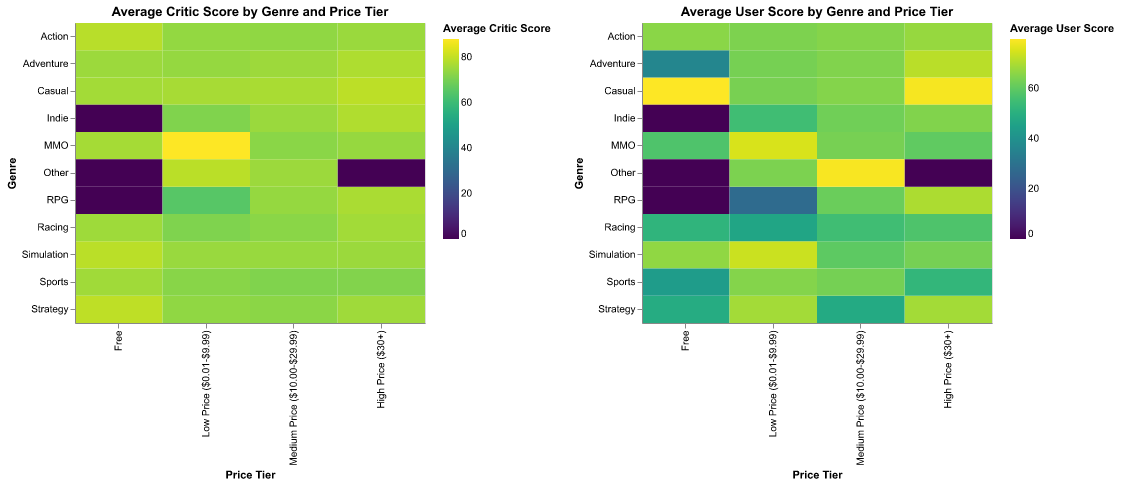
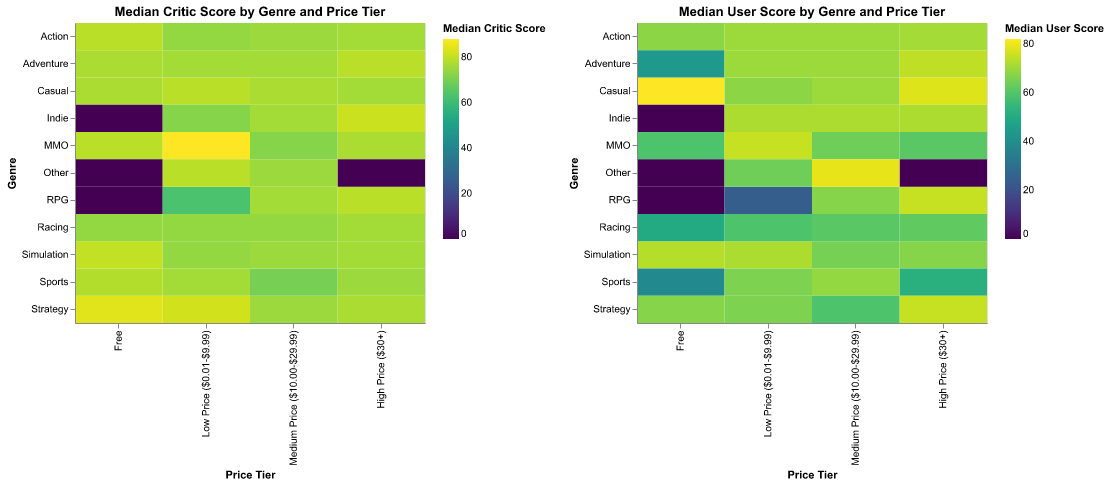
changed to median

diff --git a/scripts/phase_4/q2_price_vs_quality.py b/scripts/phase_4/q2_price_vs_quality.py
@@ -5,7 +5,7 @@ from mongo_config import init_mongo_client
 db = init_mongo_client()
 
 
-# Aggregation Pipeline: average critic and user score by genre and price tier
+# Aggregation Pipeline: median critic and user score by genre and price tier
 pipeline = [
     # stage 1: Create price tiers through addFields oeprator
     {
@@ -47,54 +47,122 @@ pipeline = [
     },
     # stage 2: assign price tier to each document via match operator
     {"$match": {"price_tier": {"$exists": True}}},
-    # stage 3: group by critic score and user score
+    # stage 3: sort the scores by order and extract median by dividing by 2
     {
-        "$group": {
-            "_id": {"genre": "$genre", "price_tier": "$price_tier"},
-            "avg_critic_score": {"$avg": "$review_summary.metascore"},
-            "avg_user_score": {"$avg": "$review_summary.user_score"},
-            "count": {"$sum": 1},
+        "$facet": {
+            "critic_stats": [
+                {
+                    "$sort": {
+                        "genre": 1,
+                        "price_tier": 1,
+                        "review_summary.metascore": 1
+                    }
+                },
+                {
+                    "$group": {
+                        "_id": {
+                            "genre": "$genre",
+                            "price_tier": "$price_tier"
+                        },
+                        "critic_scores": {"$push": "$review_summary.metascore"},
+                        "count": {"$sum": 1}
+                    }
+                },
+                {
+                    "$project": {
+                        "_id": 1,
+                        "count": 1,
+                        "median_critic_score": {
+                            "$arrayElemAt": [
+                                "$critic_scores",
+                                {
+                                    "$floor": {
+                                        "$divide": [
+                                            {"$size": "$critic_scores"},
+                                            2
+                                        ]
+                                    }
+                                }
+                            ]
+                        }
+                    }
+                }
+            ],
+            "user_stats": [
+                {
+                    "$sort": {
+                        "genre": 1,
+                        "price_tier": 1,
+                        "review_summary.user_score": 1
+                    }
+                },
+                {
+                    "$group": {
+                        "_id": {
+                            "genre": "$genre",
+                            "price_tier": "$price_tier"
+                        },
+                        "user_scores": {"$push": "$review_summary.user_score"}
+                    }
+                },
+                {
+                    "$project": {
+                        "_id": 1,
+                        "median_user_score": {
+                            "$arrayElemAt": [
+                                "$user_scores",
+                                {
+                                    "$floor": {
+                                        "$divide": [
+                                            {"$size": "$user_scores"},
+                                            2
+                                        ]
+                                    }
+                                }
+                            ]
+                        }
+                    }
+                }
+            ]
         }
-    },
-    # stage 4: project the required fields for our visualization
-    {
-        "$project": {
-            "_id": 0,
-            "genre": "$_id.genre",
-            "price_tier": "$_id.price_tier",
-            "avg_critic_score": 1,
-            "avg_user_score": 1,
-            "count": 1,
-        }
-    },
+    }
 ]
 
-results = list(db.aggregate(pipeline))
+results = list(db.aggregate(pipeline))[0]
 
 #Map results to their respective dictionaries
+critic_results = results["critic_stats"]
+user_results = results["user_stats"]
+
 critic_scores = {}
 user_scores = {}
 
-for doc in results:
-    genre = doc["genre"]
-    price_tier = doc["price_tier"]
-    avg_critic_score = doc["avg_critic_score"]
-    avg_user_score = doc["avg_user_score"]
-
+for doc in critic_results:
+    genre = doc["_id"]["genre"]
+    price_tier = doc["_id"]["price_tier"]
+    median_critic_score = doc["median_critic_score"]
     if genre not in critic_scores:
         critic_scores[genre] = {}
+    
+    critic_scores[genre][price_tier] = median_critic_score
+
+for doc in user_results:
+    genre = doc["_id"]["genre"]
+    price_tier = doc["_id"]["price_tier"]
+    median_user_score = doc["median_user_score"]
+
     if genre not in user_scores:
         user_scores[genre] = {}
 
-    critic_scores[genre][price_tier] = avg_critic_score
-    user_scores[genre][price_tier] = avg_user_score
+    user_scores[genre][price_tier] = median_user_score
+
 
 #Convert dictionaries to dataframes for visualization
 critic_df = pd.DataFrame.from_dict(critic_scores, orient="index").fillna(0).reset_index().melt(
-    id_vars="index", var_name="price_tier", value_name="avg_critic_score"
+    id_vars="index", var_name="price_tier", value_name="median_critic_score"
     ).rename(columns={"index": "genre"})
 user_df = pd.DataFrame.from_dict(user_scores, orient="index").fillna(0).reset_index().melt(
-    id_vars="index", var_name="price_tier", value_name="avg_user_score"
+    id_vars="index", var_name="price_tier", value_name="median_user_score"
 ).rename(columns={"index": "genre"})
 
 tier_order = [
@@ -108,17 +176,17 @@ tier_order = [
 heatmap_critic = alt.Chart(critic_df).mark_rect().encode(
     x=alt.X("price_tier:N", title="Price Tier", sort=tier_order),
     y=alt.Y("genre:N", title="Genre"),
-    color=alt.Color("avg_critic_score:Q", title="Average Critic Score", scale=alt.Scale(scheme="viridis")),
-    tooltip=["genre", "price_tier", alt.Tooltip("avg_critic_score:Q", format=".2f")],
-).properties(title="Average Critic Score by Genre and Price Tier", width=350, height=300)
+    color=alt.Color("median_critic_score:Q", title="Median Critic Score", scale=alt.Scale(scheme="viridis")),
+    tooltip=["genre", "price_tier", alt.Tooltip("median_critic_score:Q", format=".2f")],
+).properties(title="Median Critic Score by Genre and Price Tier", width=350, height=300)
 
 #Heatmap 2: User Scores Heatmap
 heatmap_user = alt.Chart(user_df).mark_rect().encode(
     x=alt.X("price_tier:N", title="Price Tier", sort=tier_order),
     y=alt.Y("genre:N", title="Genre"),
-    color=alt.Color("avg_user_score:Q", title="Average User Score", scale=alt.Scale(scheme="viridis")),
-    tooltip=["genre", "price_tier", alt.Tooltip("avg_user_score:Q", format=".2f")],
-).properties(title="Average User Score by Genre and Price Tier", width=350, height=300)
+    color=alt.Color("median_user_score:Q", title="Median User Score", scale=alt.Scale(scheme="viridis")),
+    tooltip=["genre", "price_tier", alt.Tooltip("median_user_score:Q", format=".2f")],
+).properties(title="Median User Score by Genre and Price Tier", width=350, height=300)
 
 combined = alt.hconcat(heatmap_critic, heatmap_user).resolve_scale(color="independent")
 

diff --git a/scripts/phase_4/mongo_config.py b/scripts/phase_4/mongo_config.py
@@ -9,4 +9,5 @@ collection = "games"
 def init_mongo_client(CWL: str = CWL, SNUM: str = SNUM) -> None: 
     connection_string = f"mongodb://{CWL}:a{SNUM}@localhost:27017/{CWL}"
     client = pymongo.MongoClient(connection_string)
+    print(client.server_info()["version"])
     return client[CWL][collection]
